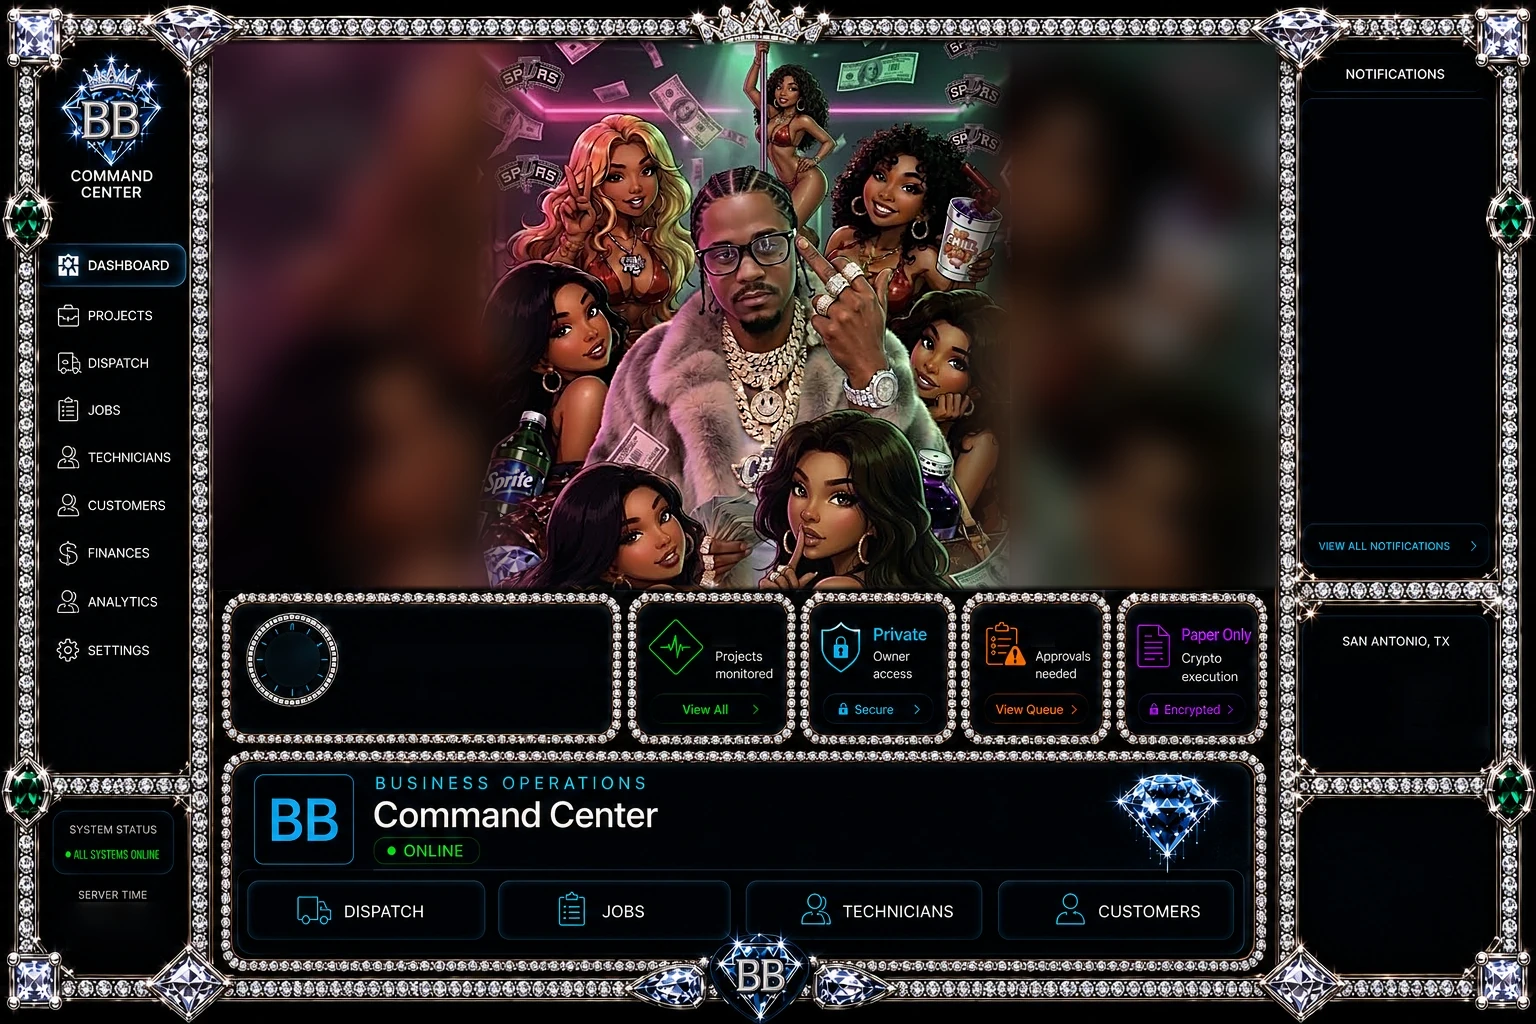
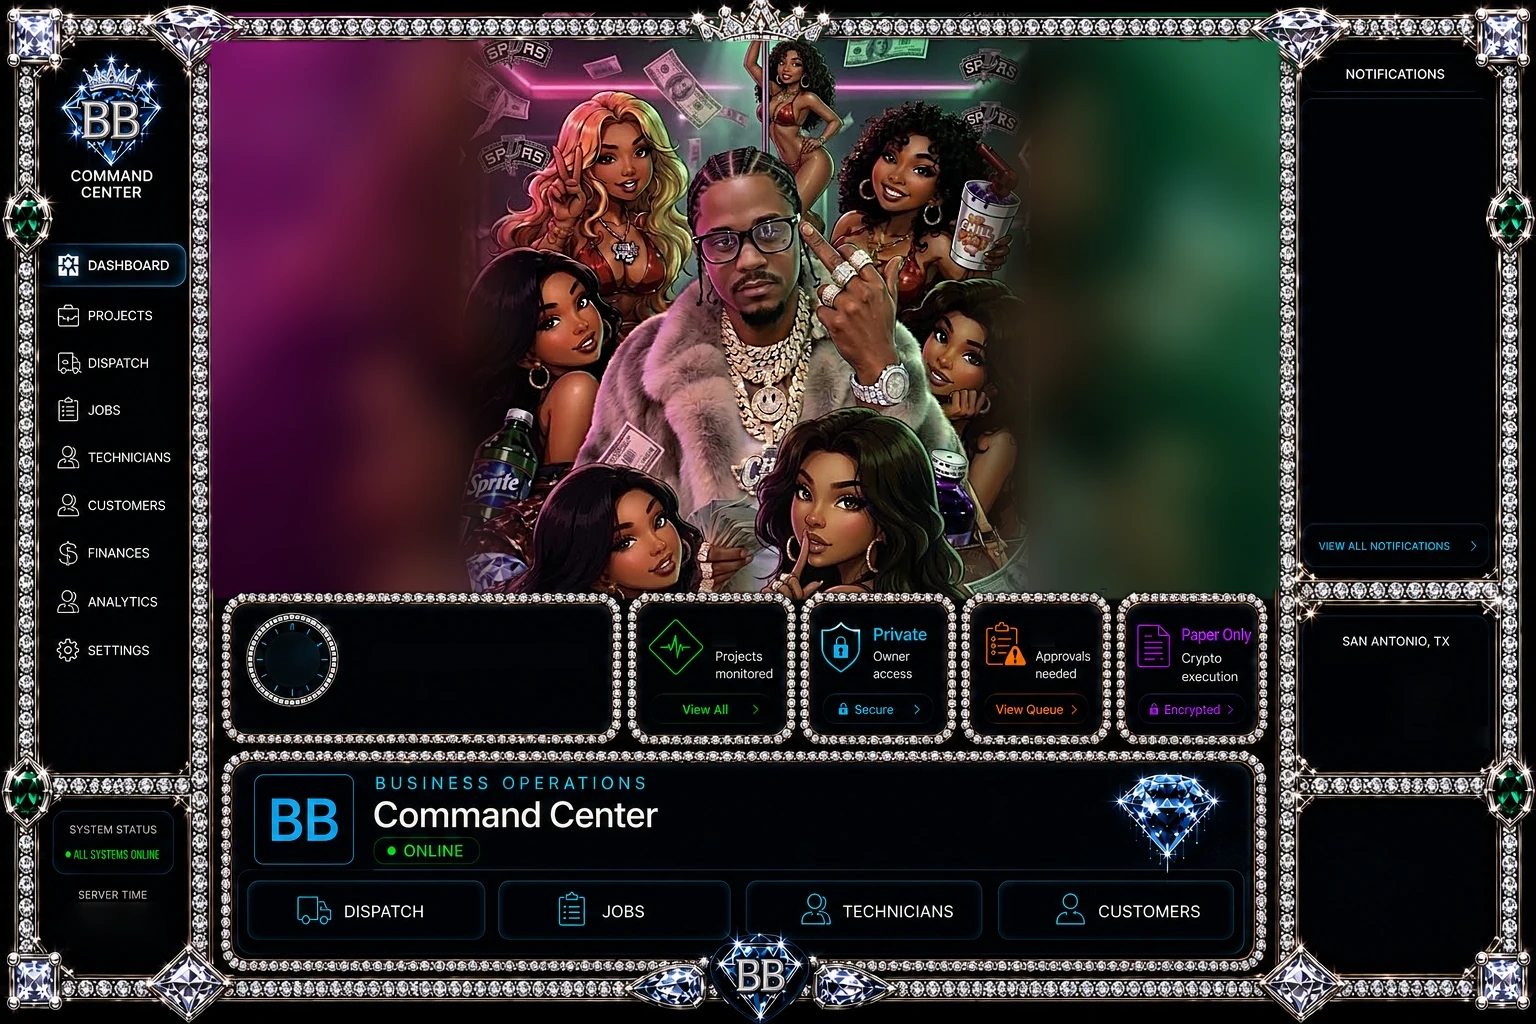
Command Center: hero tucked behind the diamond frame, My Apps flows with the art (#270)
- Hero now runs under the frame; the frame's diamonds, chains and gems sit on top
- Fake 9:41 status bar baked into the phone art removed
- Desktop side fill: pink/green neon glow instead of plain blur
- My Apps: black glass with diamond chain sides, diamond-framed tiles
- Talk/HQ/Claude/Brae.I. join the page on phones instead of floating over the cards
- Big app cards get the white diamond rim; side apps panel scrolls

Claude-Session: https://claude.ai/code/session_01GwJU8sEwRPrinUDajYV5QW

Changed region(s): [[0.125, 0.0, 0.8438, 0.5938]]

diff --git a/public/command-center/cc/cc.css b/public/command-center/cc/cc.css
@@ -402,3 +402,26 @@ body.hqv-on .talk-dock{bottom:max(76px,calc(env(safe-area-inset-bottom) + 64px))
 .panel input,.panel textarea,.panel select{border:2px solid rgba(223,233,242,.55)!important;border-radius:12px;background:#03070b!important;color:#fff}
 .panel input:focus,.panel textarea:focus,.panel select:focus{outline:none;border-color:#fff!important;box-shadow:0 0 12px rgba(31,182,255,.5)}
 @media (max-width:640px){.panel{border-left-width:0;border-image-width:0}.panel .card,.panel-body .card{border-width:12px;border-image-width:12px}}
+
+/* ---- My Apps flows straight on from the art: same black glass, diamond chain sides, diamond-framed tiles ---- */
+@media (max-width:767px),(orientation:portrait) and (max-width:1100px){
+  .dock-m{position:relative;box-sizing:border-box;margin:0 auto;background:linear-gradient(180deg,#020406,#05080c 40%,#020406);
+    border:0 solid transparent;border-width:0 12px 12px;border-image:url(frame-card.webp) 30 round;border-image-width:0 12px 12px;padding:16px 12px calc(22px + env(safe-area-inset-bottom))}
+  .dock-title{color:#fff;text-shadow:0 0 10px rgba(31,182,255,.6);letter-spacing:.16em}
+  .dock-title img{width:40px;filter:drop-shadow(0 0 6px rgba(255,255,255,.35))}
+  .dock-row{gap:10px}
+  .dock-row .app-tile{border:10px solid transparent;border-image:url(frame-card.webp) 30 round;border-image-width:10px;border-radius:0;
+    background:#03070b;box-shadow:none;overflow:hidden}
+  .dock-row .app-tile:hover{transform:none;box-shadow:0 0 14px rgba(255,255,255,.25)}
+  .dock-row .app-tile .lbl{text-transform:uppercase;letter-spacing:.08em;font-weight:800;font-size:11px}
+  /* Talk / HQ / Claude / Brae.I. sit in the page instead of floating over the cards */
+  .talk-dock.in-flow{position:static;display:grid;grid-template-columns:repeat(2,1fr);gap:10px;margin:0 2px 14px;left:auto;right:auto;bottom:auto}
+  .talk-dock.in-flow .talk-btn{justify-content:center;min-height:50px;box-sizing:border-box;border:2px solid #e6eef5;border-radius:999px;background:linear-gradient(180deg,#0e2232,#050b11);
+    box-shadow:0 0 12px rgba(255,255,255,.18),inset 0 0 0 1px rgba(31,182,255,.35);text-transform:uppercase;letter-spacing:.06em;font-size:13px}
+}
+.side-grid .app-tile{border:6px solid transparent;border-image:url(frame-card.webp) 30 round;border-image-width:6px;border-radius:0;background:#03070b;box-shadow:none}
+.side-apps{overflow:auto}
+.side-grid{gap:.45em}
+/* big app cards: black glass with a white diamond rim like the art's cards (the app's colour stays on its icon and dot) */
+.big-tile{background:linear-gradient(180deg,#070b11,#03060a);box-shadow:inset 0 0 0 1.5px rgba(230,238,245,.7),0 0 10px rgba(255,255,255,.08)}
+.big-tile:hover,.big-tile:focus-visible{box-shadow:inset 0 0 0 2px #fff,0 0 16px rgba(31,182,255,.45)}

diff --git a/public/command-center/cc/brai.js b/public/command-center/cc/brai.js
@@ -214,6 +214,15 @@
     btn.innerHTML = '<span class="talk-ico" aria-hidden="true">💎</span><span class="talk-lbl">Brae.I.</span>';
     btn.addEventListener('click', () => open(btn));
     (dock || document.body).appendChild(btn);
+    // On phones the buttons join the page (top of My Apps) instead of floating over the cards.
+    const place = () => {
+      const d = document.querySelector('.talk-dock'), apps = document.querySelector('.dock-m'), title = apps && apps.querySelector('.dock-title');
+      if (!d || !apps) return;
+      const phone = getComputedStyle(apps).display !== 'none';
+      if (phone && !d.classList.contains('in-flow')) { d.classList.add('in-flow'); (title || apps.firstChild).after(d); }
+      else if (!phone && d.classList.contains('in-flow')) { d.classList.remove('in-flow'); document.body.appendChild(d); }
+    };
+    place(); addEventListener('resize', place);
   }
   mountButton();
   loadProfile();
